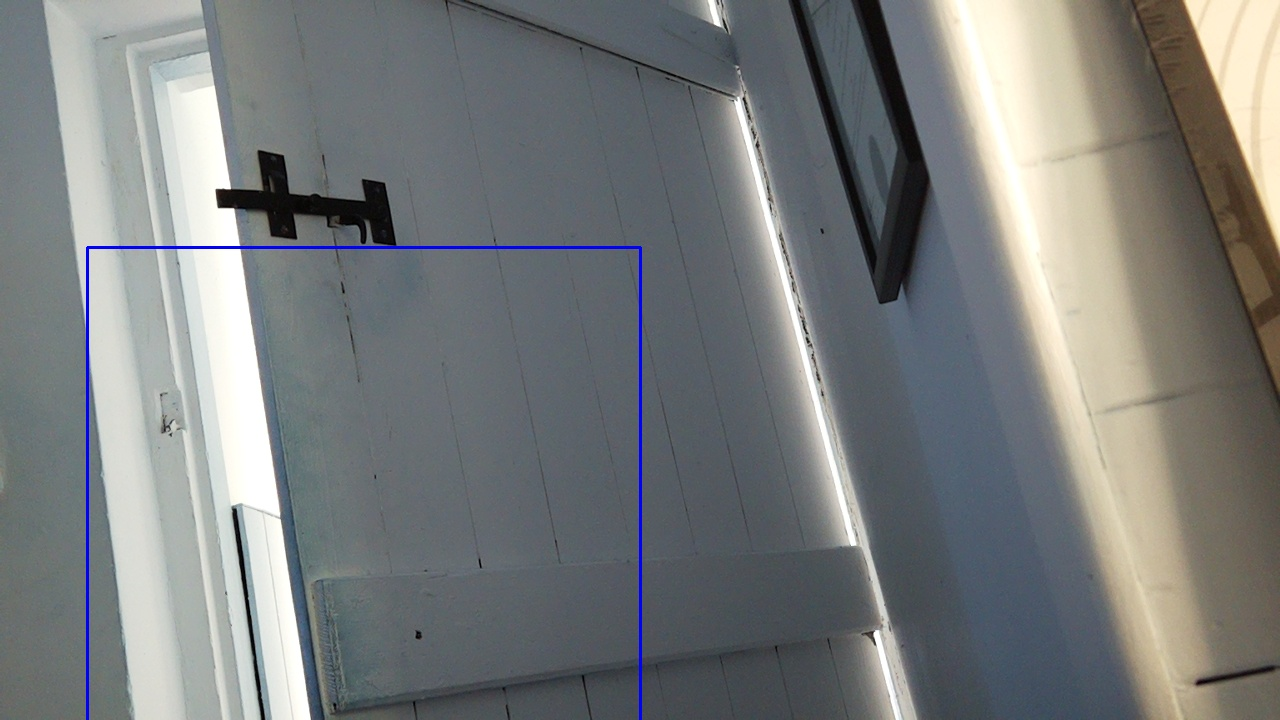
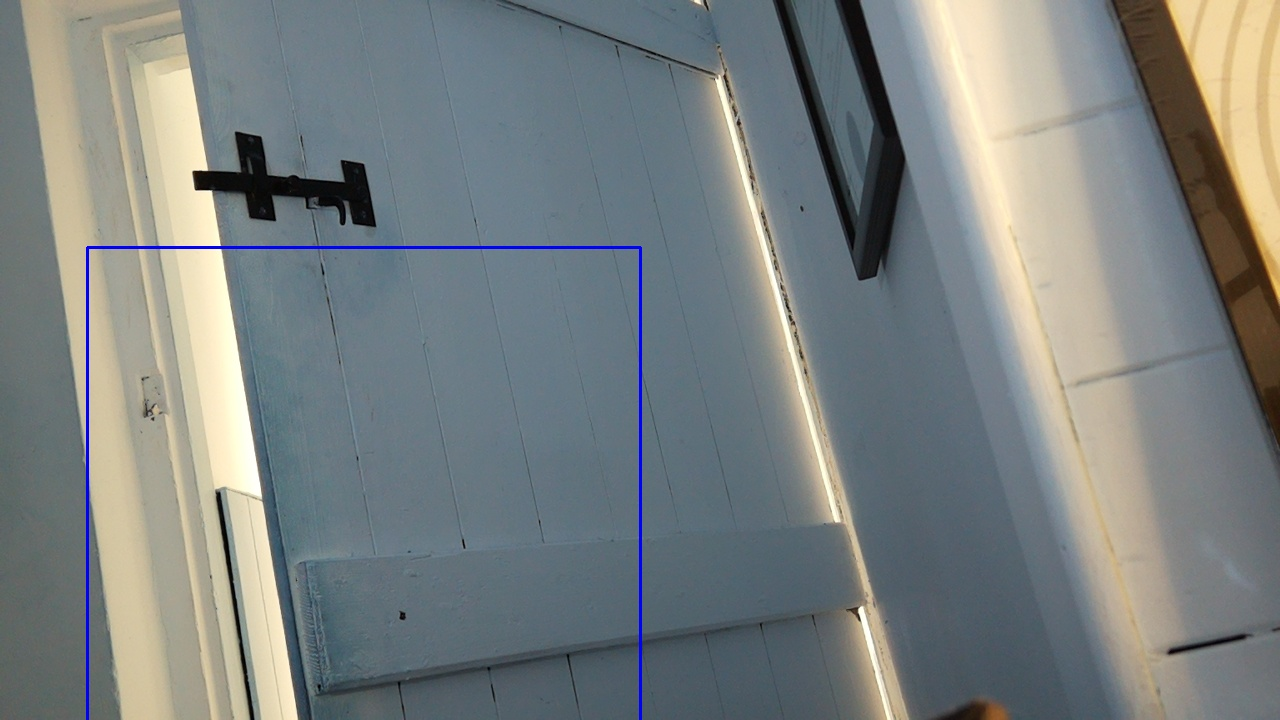
Added 3 files, main, rules_engine and light_controller

diff --git a/light_controller.py b/light_controller.py
@@ -1,0 +1,35 @@
+import socket
+import time
+import json
+
+#https://docs.python.org/3/library/socket.html#socket.socket.recvmsg
+#https://www.youtube.com/watch?v=wyoYbMRIAFE
+
+def getLightState(): #not working yet
+    response = None
+    
+    payload = {
+            "method": "getPilot",
+        }
+    UDP_IP_PLUG = "192.168.2.182"  # Plug IP
+    UDP_PORT = 38899 # Port it uses from the Github ref
+    sock = socket.socket(socket.AF_INET, socket.SOCK_DGRAM) # opens a new socket
+    message = str(json.dumps(payload))
+    message = message.encode('utf-8')
+    sock.sendto(message,(UDP_IP_PLUG,UDP_PORT))
+    message = sock.recvfrom(1024)
+    return message
+   
+
+
+
+def lightState(payload):
+    
+    UDP_IP_PLUG = "192.168.2.182"  # Plug IP
+    UDP_PORT = 38899 # Port it uses from the Github ref
+    sock = socket.socket(socket.AF_INET, socket.SOCK_DGRAM) # opens a new socket
+    message = str(json.dumps(payload))
+    message = message.encode('utf-8')
+    sock.sendto(message,(UDP_IP_PLUG,UDP_PORT))
+    time.sleep(.3)
+    print(message)

diff --git a/motion_sensor_v1.py b/motion_sensor_v1.py
@@ -83,7 +83,7 @@ def sense_motion():
             if duration >= .5: #if the time taken in motion is less then .5 of a second send the message, avg time to talk through a door
                 sense.clear(255,0,0)
                 print("Motion")
-                time.sleep(3)
+                time.sleep(1)
                 return True  
         else:
             backgroundFrame = cv.addWeighted(currentFrame, 0.05, backgroundFrame, 0.95, 0) #this makes the background adaptive, blends background img to current slowly
@@ -91,6 +91,7 @@ def sense_motion():
             cv.imwrite("debug.jpg", frame)
             time_triggered = None # resets
             triggered = False # resets
+            
             
     
     

diff --git a/rules_engine.py b/rules_engine.py
@@ -1,0 +1,26 @@
+import json
+
+#https://github.com/UselessMnemonic/OpenWiz
+
+
+def if_motion_detected(motion, triggered):
+    payload = None
+    if motion and not triggered:
+        payload = {
+            "method": "setPilot",
+            "params":{
+                "state": True
+            }
+        }
+        triggered = True
+    elif motion and triggered:
+        triggered = False
+        payload = {
+            "method": "setPilot",
+            "params":{
+                "state": False
+            }
+        }
+
+    print(motion)
+    return payload

diff --git a/main.py b/main.py
@@ -1,0 +1,17 @@
+from motion_sensor_v1 import sense_motion
+from rules_engine import if_motion_detected
+from light_controller import lightState, getLightState
+
+
+
+while True:
+    #light_state = getLightState()
+    payload = if_motion_detected(sense_motion(), False)
+
+    lightState(payload)
+    #print(light_state)
+
+
+
+
+
